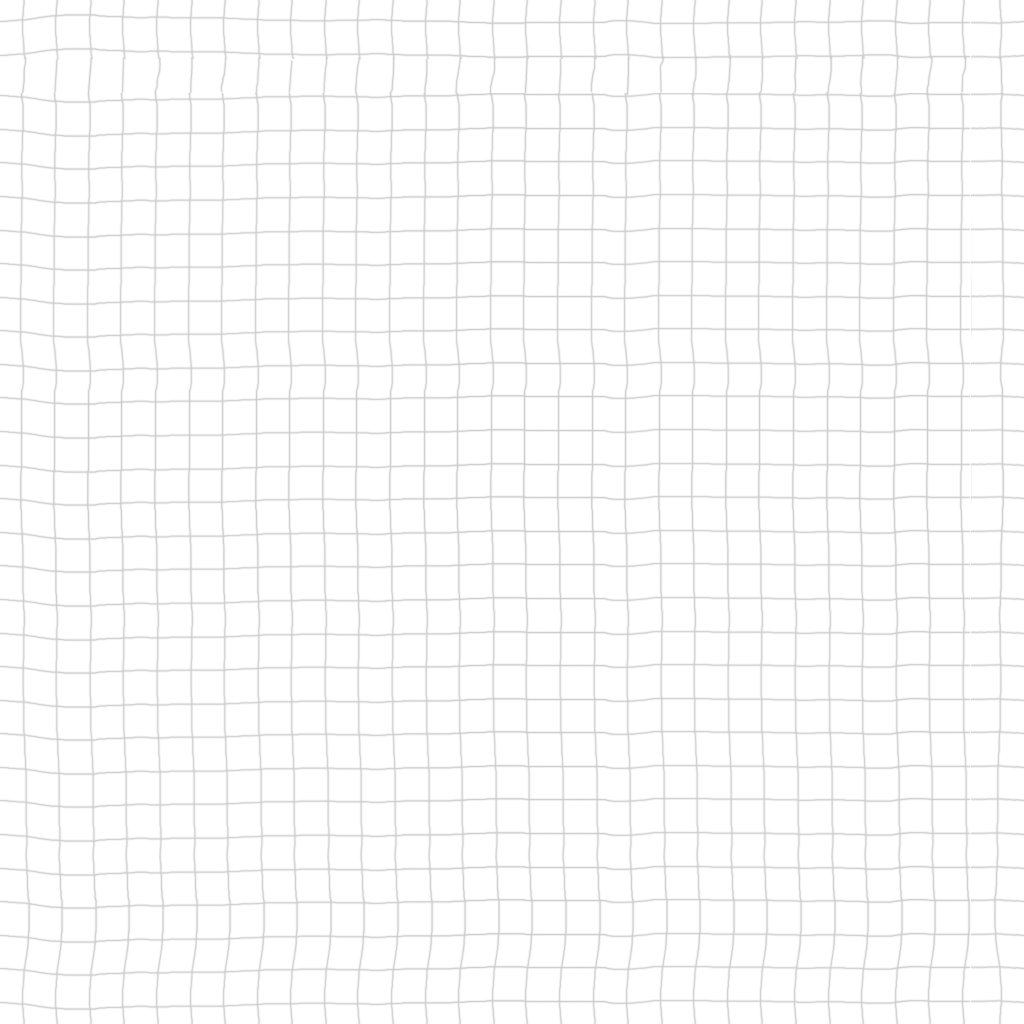
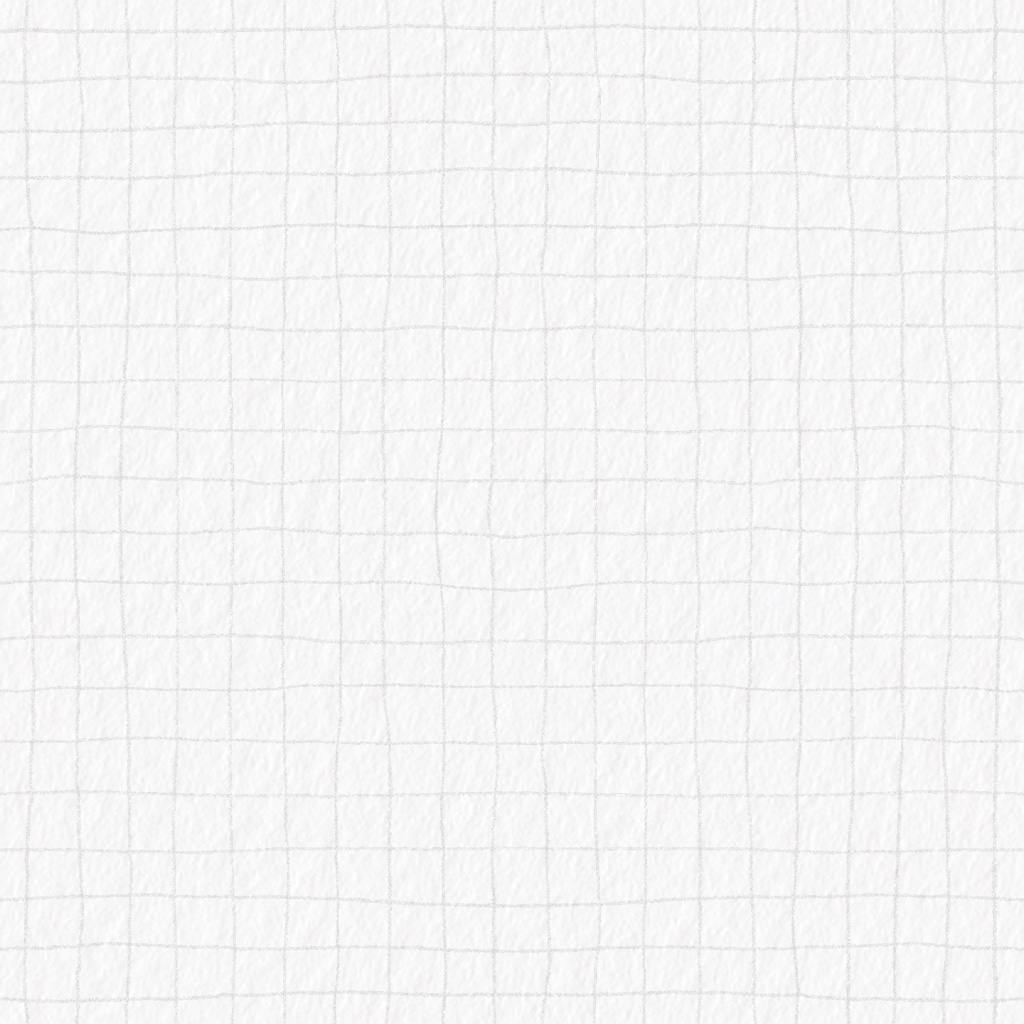
이벤트 테스트 완료

diff --git a/src/main.js b/src/main.js
@@ -8,8 +8,8 @@ const textureLoader = new THREE.TextureLoader();
 const floorTexture = textureLoader.load('/images/grid.png');
 floorTexture.wrapS = THREE.RepeatWrapping;
 floorTexture.wrapT = THREE.RepeatWrapping;
-floorTexture.repeat.x = 14;
-floorTexture.repeat.y = 14;
+floorTexture.repeat.x = 26;
+floorTexture.repeat.y = 26;
 
 const mainTexture = textureLoader.load('/images/main.png');
 mainTexture.wrapS = THREE.RepeatWrapping;
@@ -73,11 +73,12 @@ const meshes = [];
 const floorMesh = new THREE.Mesh(
 	new THREE.PlaneGeometry(150, 150),
 	new THREE.MeshStandardMaterial({
-		map: floorTexture
+		map: floorTexture,
 	})
 );
 floorMesh.name = 'floor';
 floorMesh.rotation.x = -Math.PI/2;
+floorMesh.rotation.z = 0.45;
 floorMesh.position.z = 60;
 floorMesh.receiveShadow = true;
 scene.add(floorMesh);
@@ -86,11 +87,13 @@ meshes.push(floorMesh);
 const mainMesh = new THREE.Mesh(
 	new THREE.PlaneGeometry(10, 10),
 	new THREE.MeshStandardMaterial({
-		map: mainTexture
+		map: mainTexture,
+        transparent: true
 	})
 );
 mainMesh.name = 'main';
 mainMesh.rotation.x = -Math.PI/2;
+mainMesh.rotation.z = 0.45;
 mainMesh.position.y = 0.01;
 mainMesh.receiveShadow = true;
 scene.add(mainMesh);
@@ -98,13 +101,12 @@ scene.add(mainMesh);
 const pointerMesh = new THREE.Mesh(
 	new THREE.PlaneGeometry(1, 1),
 	new THREE.MeshBasicMaterial({
-		color: 'crimson',
 		transparent: true,
-		opacity: 0.5
+		opacity: 0
 	})
 );
 pointerMesh.rotation.x = -Math.PI/2;
-pointerMesh.position.y = 0.02;
+pointerMesh.position.y = 0;
 pointerMesh.receiveShadow = true;
 scene.add(pointerMesh);
 
